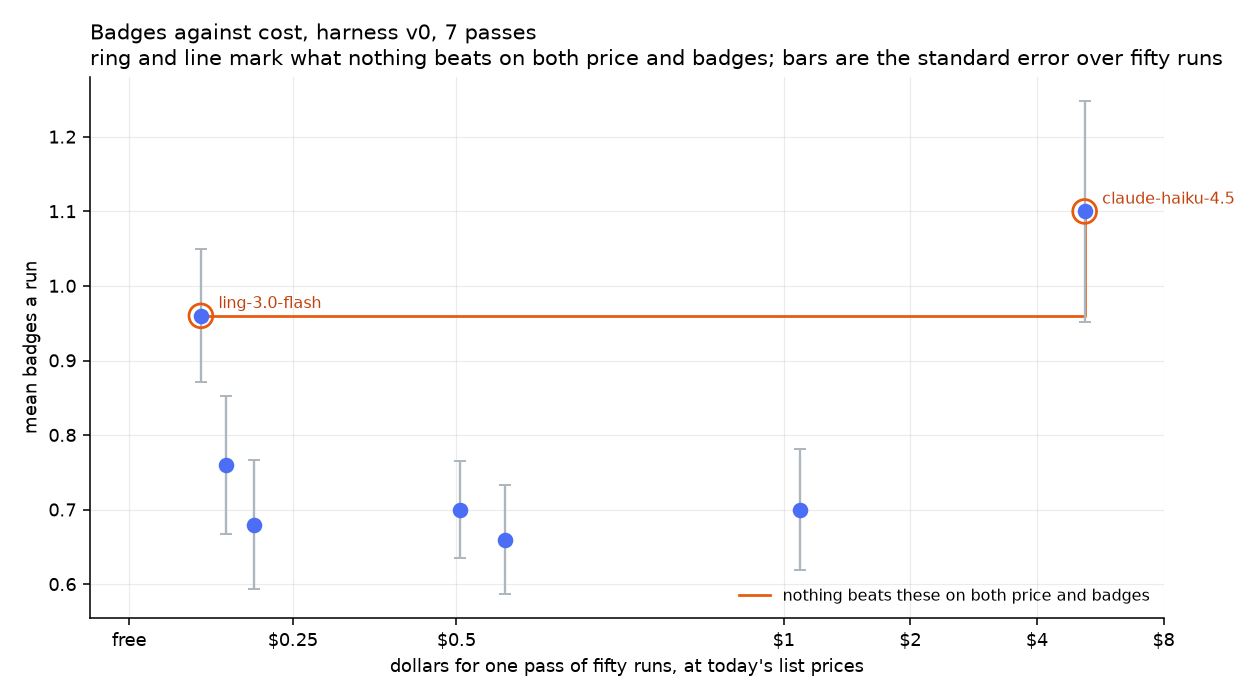
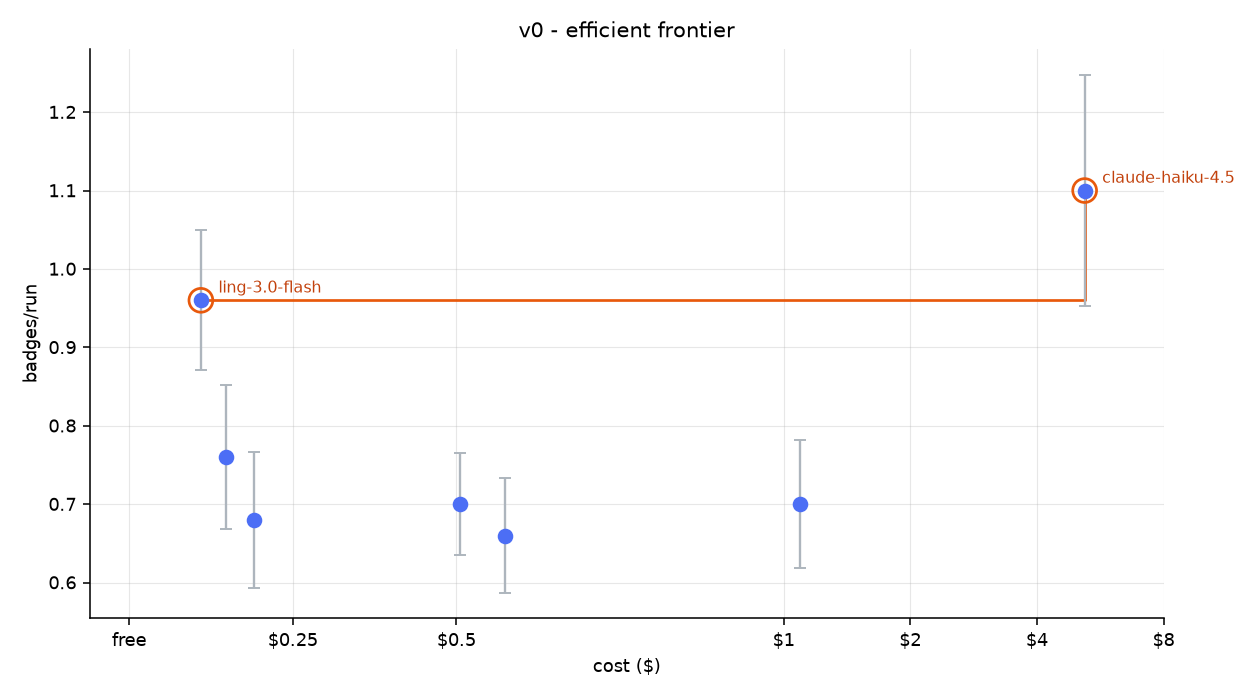
fix(bench): name the frontier chart plainly and let its axis reach every pass
The title says which harness the picture is about and nothing else, the axis
labels are two words each, and the ticks now double up to the dearest pass, so a
point on the right sits under a tick instead of past the last one. The legend
went, since the ring and the step line read on their own.

diff --git a/src/pokelike/harness/llmbench/charts.py b/src/pokelike/harness/llmbench/charts.py
@@ -141,9 +141,7 @@ def cost_chart(version: str, path: Path,
     front = _frontier(pts)
     if len(front) > 1:
         ax.step([pts[i][0] for i in front], [pts[i][1] for i in front],
-                where="post", color="#e8590c", linewidth=1.4, zorder=2,
-                label="nothing beats these on both price and badges")
-        ax.legend(fontsize=8, loc="lower right", frameon=False)
+                where="post", color="#e8590c", linewidth=1.4, zorder=2)
     for i in front:
         ax.scatter([pts[i][0]], [pts[i][1]], s=150, facecolors="none",
                    edgecolors="#e8590c", linewidths=1.4, zorder=4)
@@ -155,27 +153,27 @@ def cost_chart(version: str, path: Path,
         ax.annotate(labels[i], pts[i], textcoords="offset points", xytext=(9, 4),
                     fontsize=8, linespacing=1.2, color="#c2410c")
 
-    cap = (f"Badges against cost, harness {version}, {len(pts)} passes")
-    if unpriced:
-        cap += f" ({unpriced} left out: no published price)"
-    ax.set_title(cap + "\nring and line mark what nothing beats on both price and "
-                       "badges; bars are the standard error over fifty runs",
-                 fontsize=11, loc="left")
-    ax.set_xlabel("dollars for one pass of fifty runs, at today's list prices",
-                  fontsize=9)
-    ax.set_ylabel("mean badges a run", fontsize=9)
+    ax.set_title(f"{version} - efficient frontier", fontsize=11)
+    ax.set_xlabel("cost ($)", fontsize=9)
+    ax.set_ylabel("badges/run", fontsize=9)
     # Linear up to a dollar and logarithmic past it, because a free model has to sit
     # at zero and the interesting crowd is all under two dollars while the dearest is
     # near nine. A plain linear axis flattens the crowd into a single column.
     ax.set_xscale("symlog", linthresh=1.0, linscale=1.4)
-    ax.set_xlim(left=-0.06)
-    ax.set_xticks([0, 0.25, 0.5, 1, 2, 4, 8])
+    ax.set_xlim(-0.06, max(xs) * 1.18)
+    # The ticks double from a quarter and stop past the dearest pass, so the scale
+    # covers every point rather than ending under the ones on the right.
+    ticks = [0.0, 0.25, 0.5]
+    while ticks[-1] < max(xs):
+        ticks.append(ticks[-1] * 2)
+    ax.set_xticks(ticks)
     ax.get_xaxis().set_major_formatter(
         matplotlib.ticker.FuncFormatter(lambda v, _: "free" if v == 0 else f"${v:g}"))
     ax.tick_params(labelsize=9)
     ax.spines["top"].set_visible(False)
     ax.spines["right"].set_visible(False)
-    ax.grid(alpha=0.25, linewidth=0.6)
+    ax.grid(alpha=0.3, linewidth=0.6)
+    ax.grid(axis="x", which="minor", alpha=0.14, linewidth=0.5)
     ax.set_axisbelow(True)
     fig.tight_layout()
     path.parent.mkdir(parents=True, exist_ok=True)
